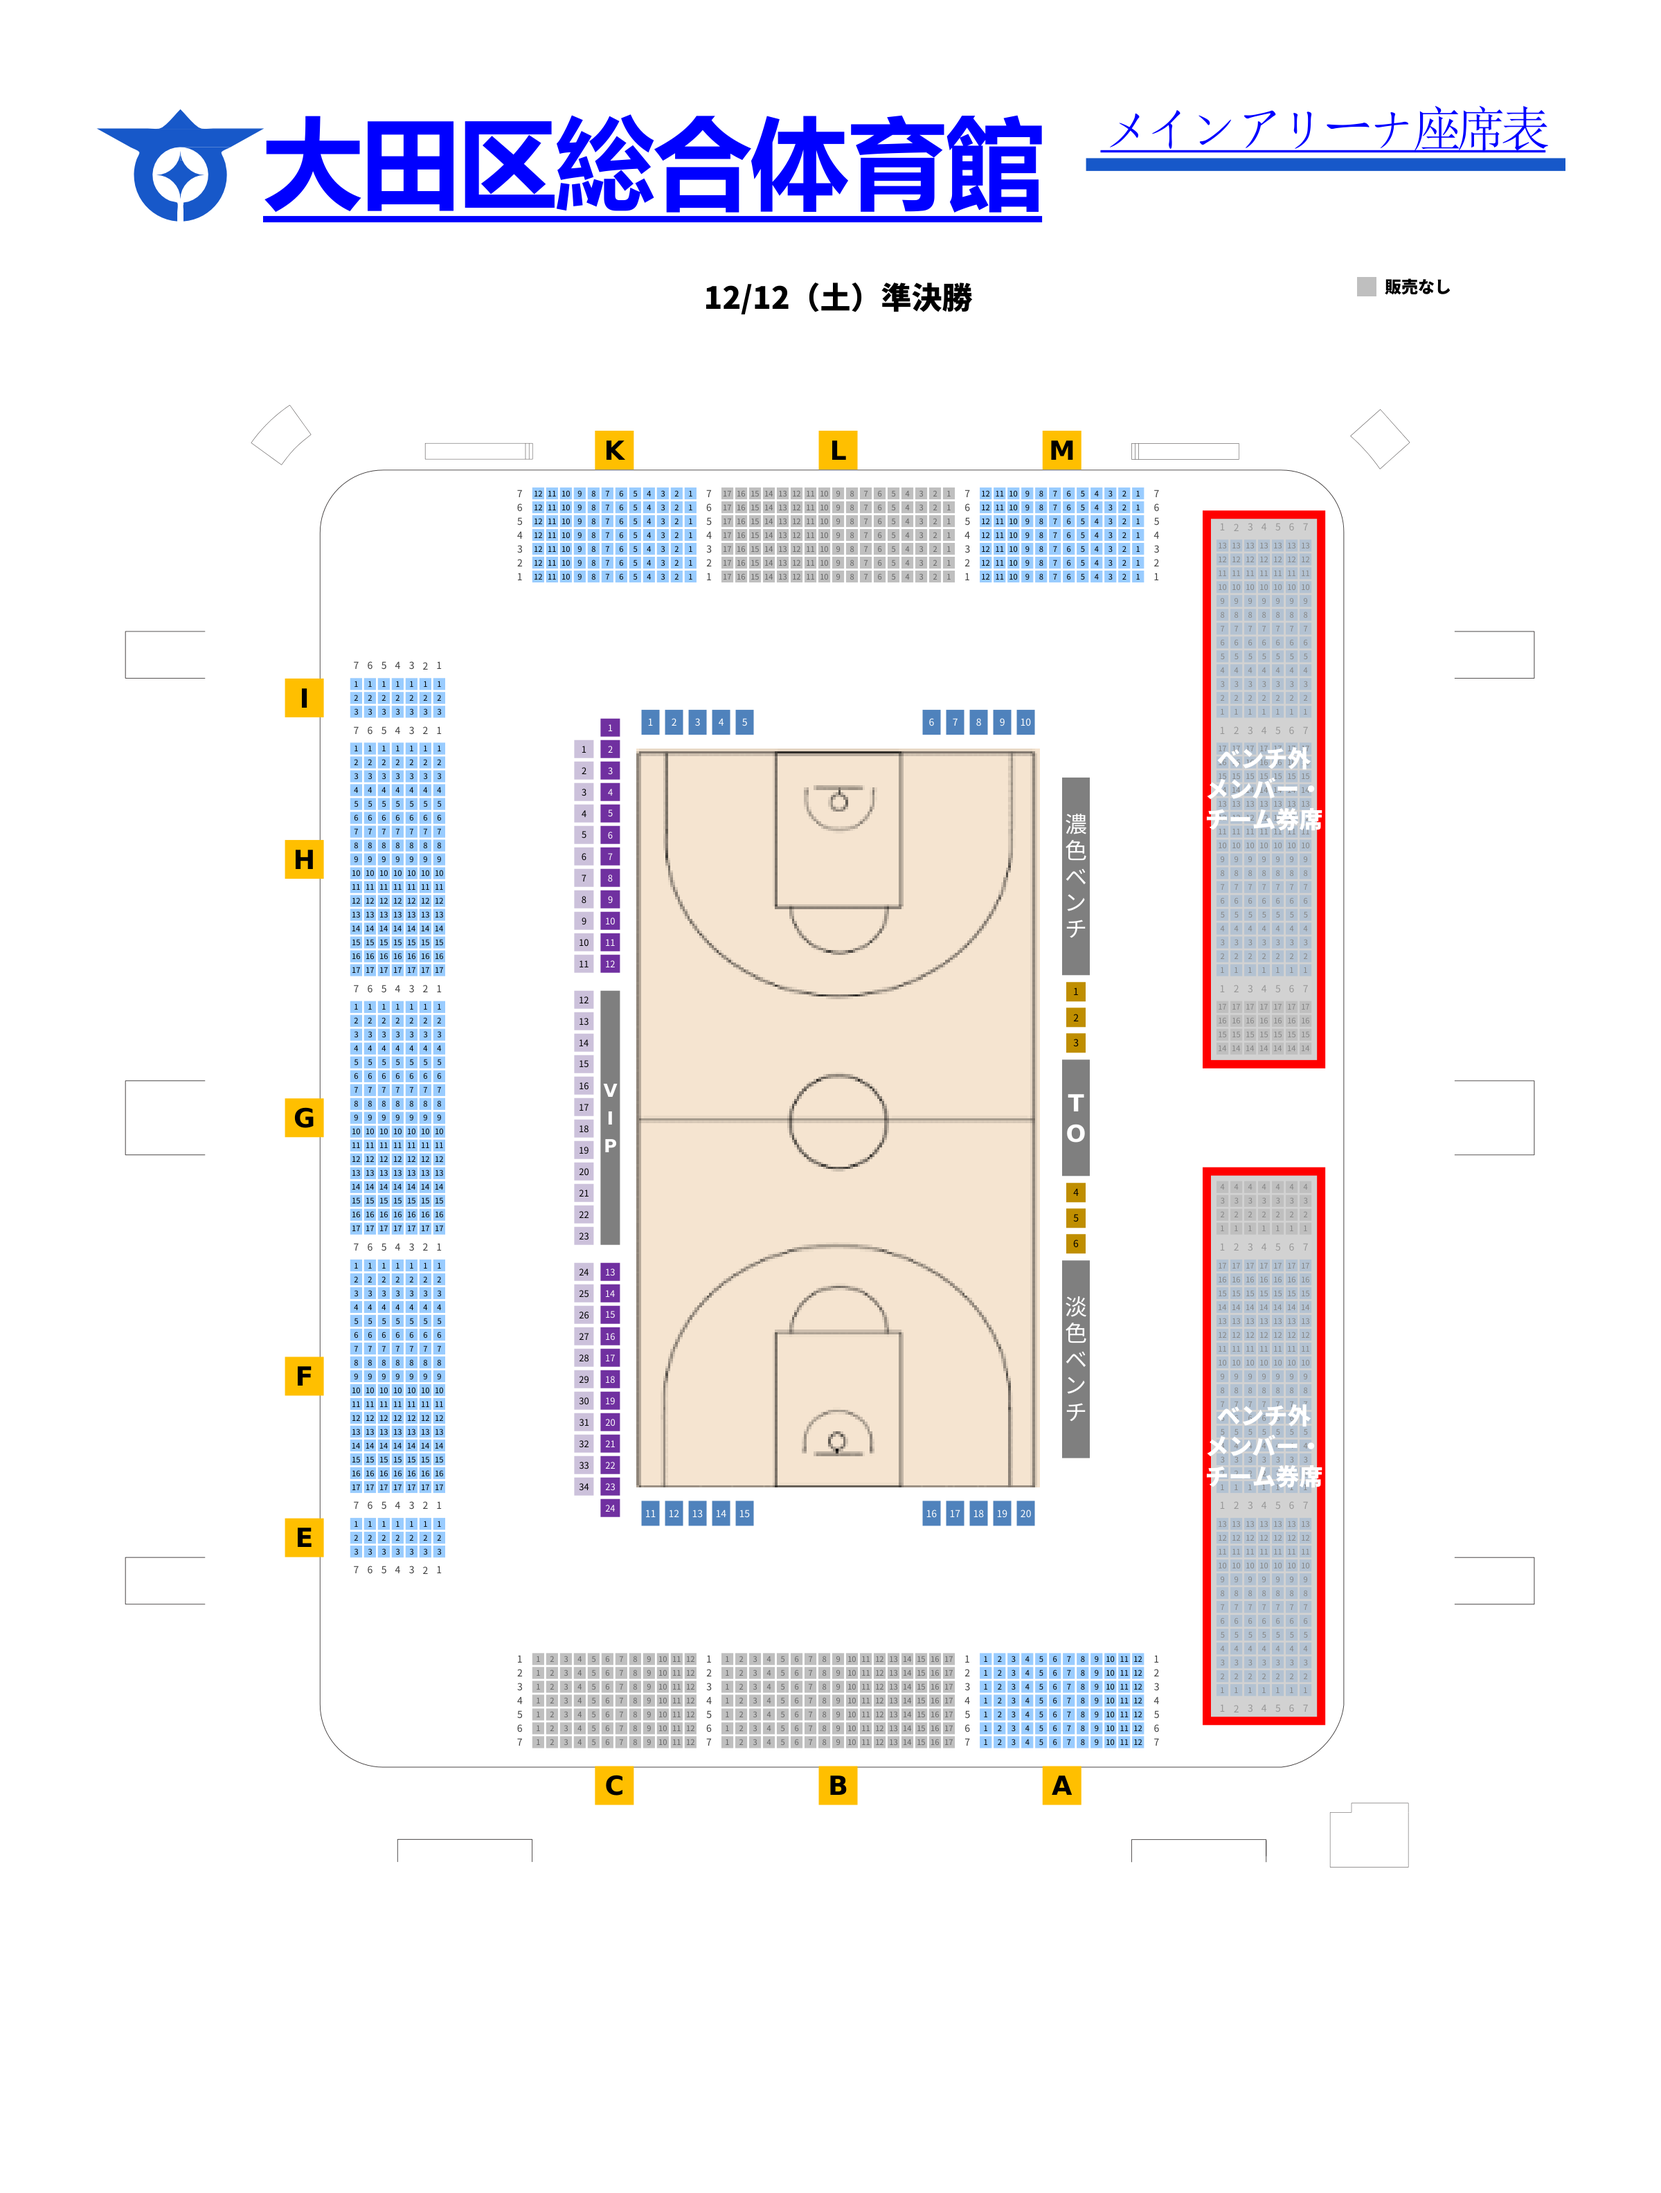
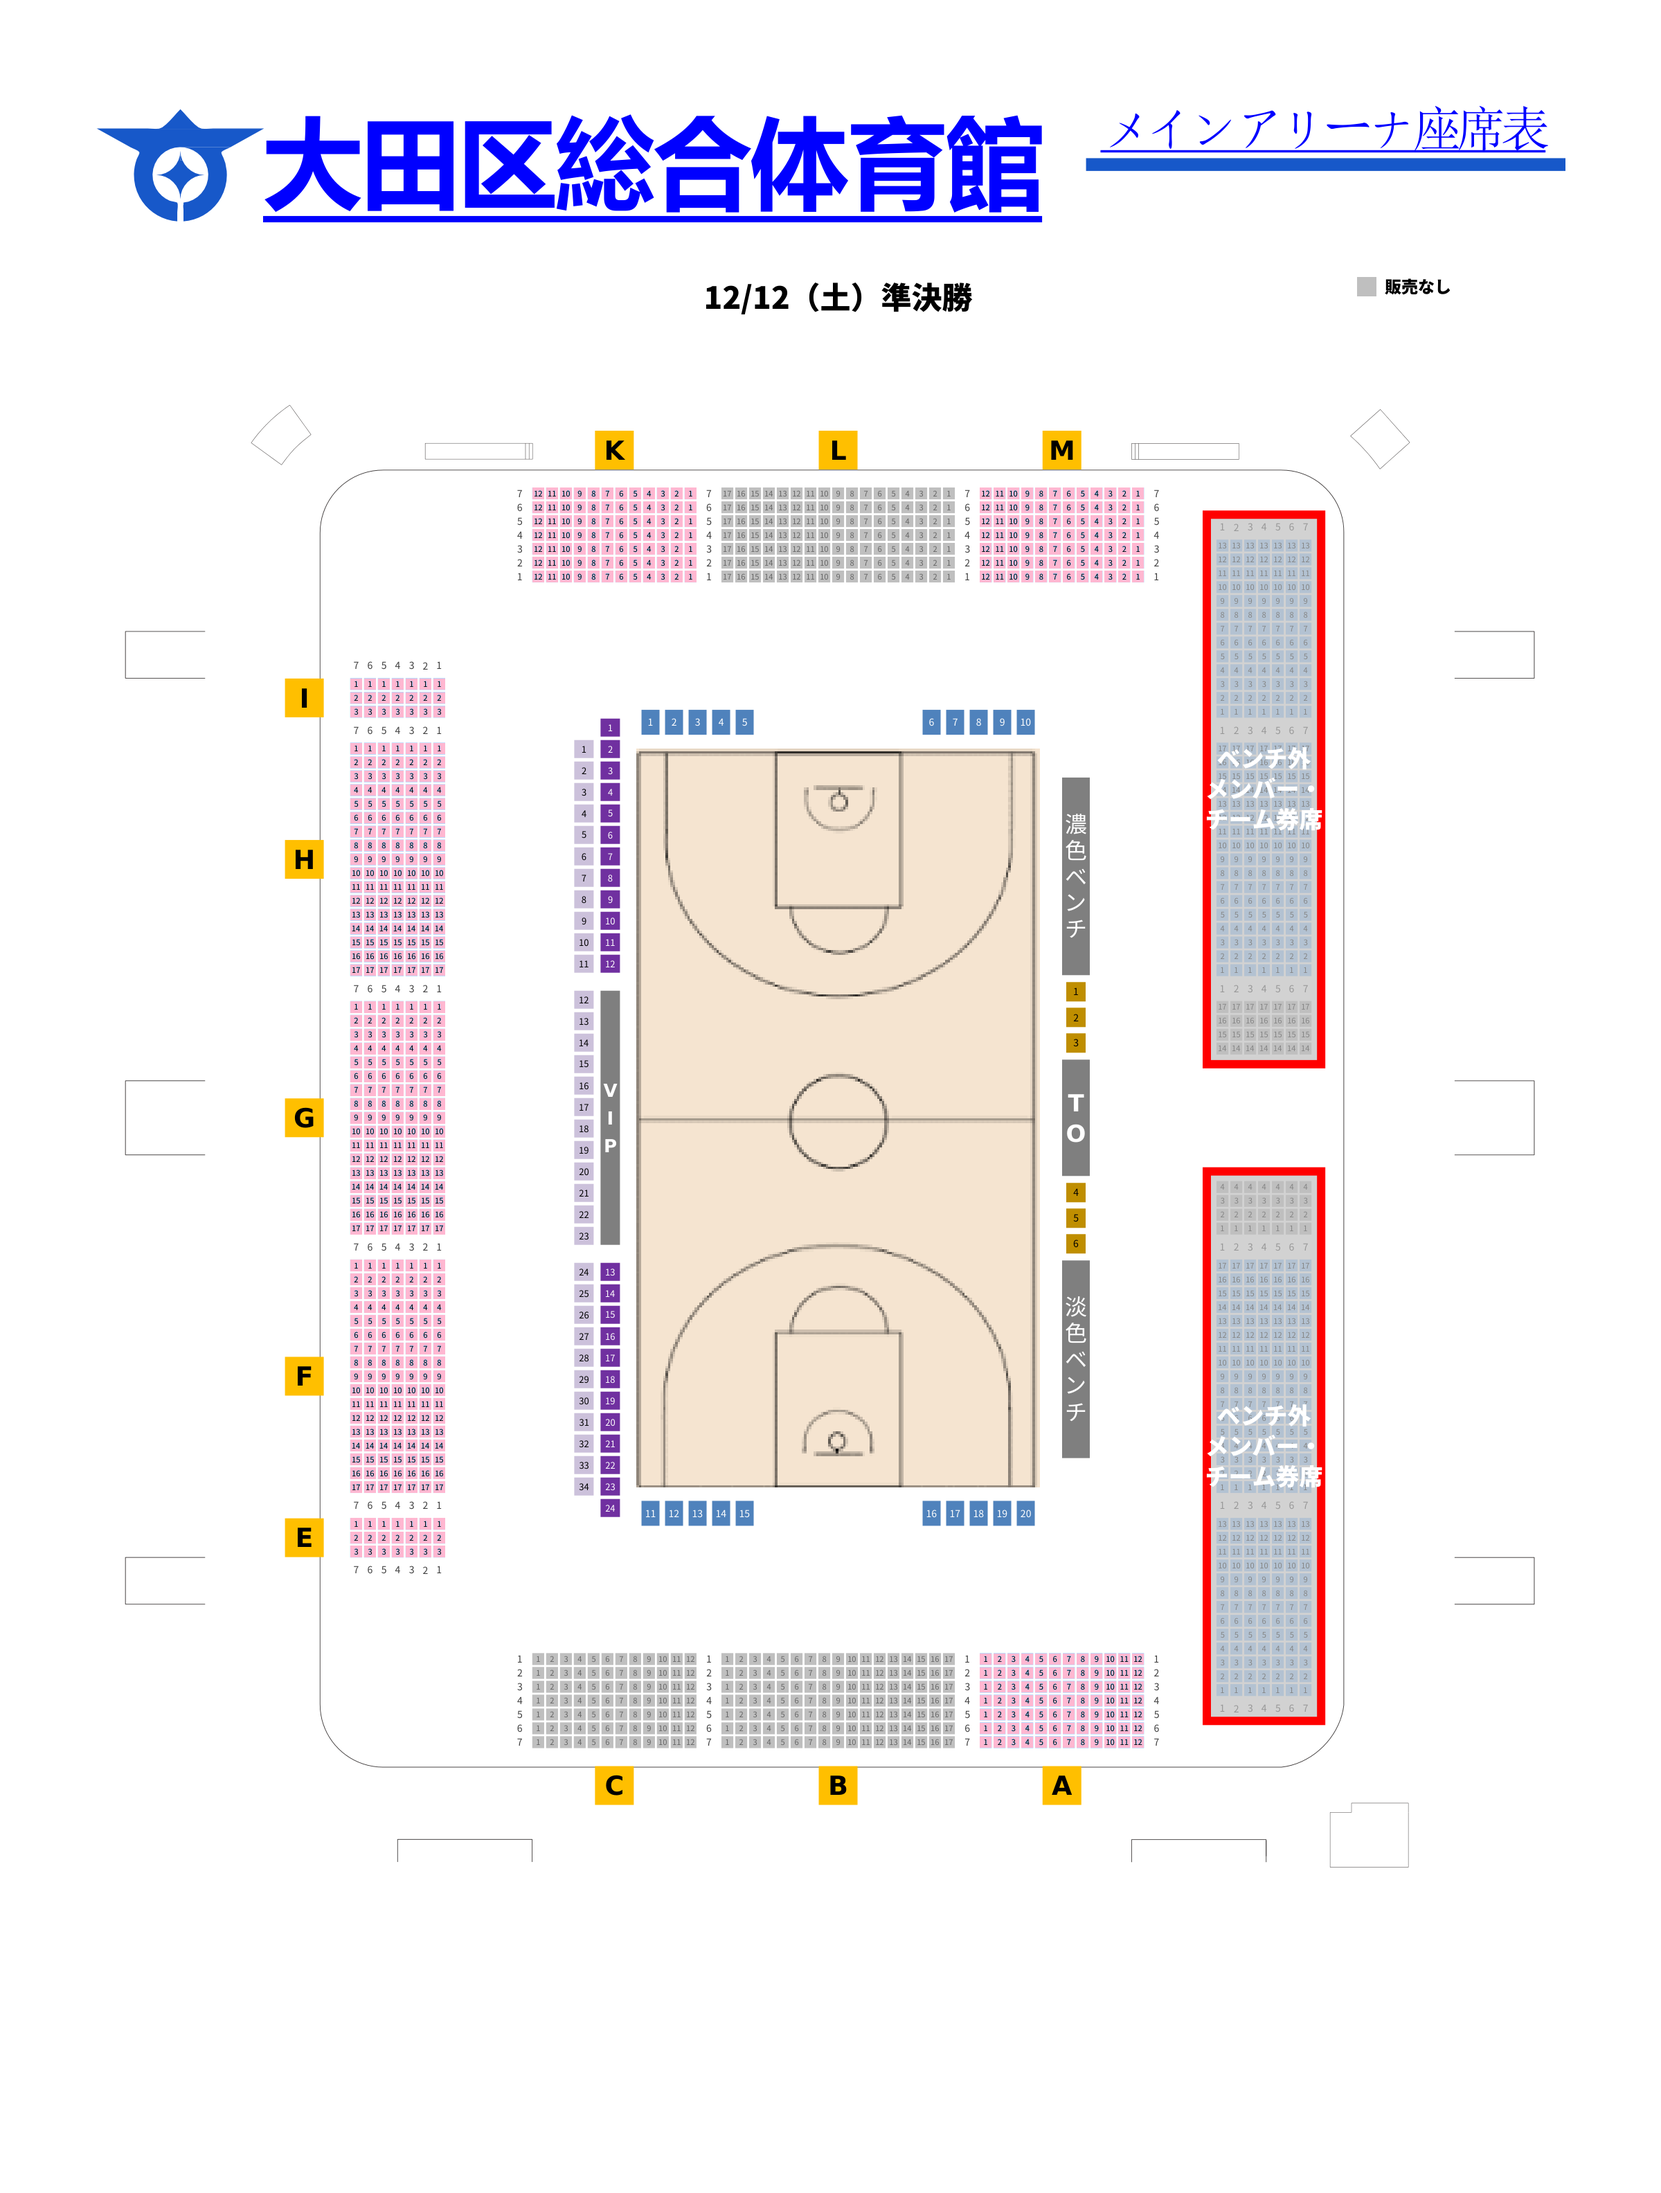
2階・チーム席に販売しません表示、大田1階をピンクに統一

diff --git a/src/components/SeatMap.tsx b/src/components/SeatMap.tsx
@@ -1,4 +1,9 @@
-import { useCallback, useEffect, useRef, useState } from 'react'
+import { useCallback, useEffect, useMemo, useRef, useState } from 'react'
+import {
+  mergeSeatRectsByZone,
+  NON_SELLABLE_ZONE_LABEL,
+  nonSellableZonesForEvent,
+} from '../lib/nonSellableRegions'
 import { isSeatSellable, isSold, seatOverlayClass } from '../lib/seatStatus'
 import type { SeatWithState, VenueEvent } from '../types'
 
@@ -134,10 +139,21 @@ export function SeatMap({
   const bgSrc =
     event.background_path ?? `/backgrounds/${event.slug}.png`
 
+  const nonSellableRegions = useMemo(() => {
+    const zones = nonSellableZonesForEvent(event.slug)
+    return zones.flatMap((zone) =>
+      mergeSeatRectsByZone(seats, zone).map((rect) => ({
+        zone,
+        rect,
+        label: NON_SELLABLE_ZONE_LABEL[zone] ?? '販売しません',
+      })),
+    )
+  }, [event.slug, seats])
+
   return (
     <div className="flex min-h-[50vh] flex-1 flex-col rounded-lg border border-slate-200 bg-white">
       <p className="border-b border-slate-200 px-3 py-1.5 text-xs text-slate-500">
-        図面は PDF から書き出した PNG（ピンク＝1階・灰色＝非販売）。空席に色は付けません。案内時のみ「空席のみ表示」で枠を出します。
+        ピンク＝1階（販売対象）。2階・チーム席は点線枠で「販売しません」表示。空席に色は付けません。
       </p>
       <div className="flex-1 overflow-auto p-2">
         {/* inline-block で img の表示サイズと席オーバーレイを完全一致 */}
@@ -173,6 +189,26 @@ export function SeatMap({
             )}
 
             <div className="pointer-events-none absolute inset-0">
+              {!moveLayoutMode &&
+                nonSellableRegions.map((region, idx) => (
+                  <div
+                    key={`ns-${region.zone}-${idx}`}
+                    className="absolute flex items-center justify-center overflow-hidden border-2 border-dashed border-slate-600/80 bg-slate-100/35"
+                    style={{
+                      left: `${region.rect.x * 100}%`,
+                      top: `${region.rect.y * 100}%`,
+                      width: `${region.rect.w * 100}%`,
+                      height: `${region.rect.h * 100}%`,
+                      backgroundImage:
+                        'repeating-linear-gradient(135deg, rgba(100,116,139,0.12) 0 6px, transparent 6px 14px)',
+                    }}
+                  >
+                    <span className="max-w-[92%] rounded-md bg-white/90 px-2 py-1 text-center text-[10px] font-bold leading-tight text-slate-700 shadow-sm sm:text-xs">
+                      {region.label}
+                    </span>
+                  </div>
+                ))}
+
               {seats.map((seat) => {
                 const preview = movePreview?.[seat.id]
                 const sx = preview?.x ?? seat.x

diff --git a/src/lib/nonSellableRegions.ts b/src/lib/nonSellableRegions.ts
@@ -1,0 +1,71 @@
+import type { Seat, SeatZone } from '../types'
+
+export type NormRect = { x: number; y: number; w: number; h: number }
+
+export const NON_SELLABLE_ZONE_LABEL: Partial<Record<SeatZone, string>> = {
+  floor2: '2階席・販売しません',
+  team_ticket: 'チーム席・販売しません',
+}
+
+/** 非販売席矩形を近接クラスタにまとめ、ラベル用の大きな枠にする */
+export function mergeSeatRectsByZone(
+  seats: Pick<Seat, 'x' | 'y' | 'w' | 'h' | 'zone'>[],
+  zone: SeatZone,
+  gap = 0.014,
+): NormRect[] {
+  type Box = { x0: number; y0: number; x1: number; y1: number }
+  let boxes: Box[] = seats
+    .filter((s) => s.zone === zone)
+    .map((s) => ({
+      x0: s.x - gap,
+      y0: s.y - gap,
+      x1: s.x + s.w + gap,
+      y1: s.y + s.h + gap,
+    }))
+
+  let merged = true
+  while (merged && boxes.length > 1) {
+    merged = false
+    const next: Box[] = []
+    const used = new Set<number>()
+    for (let i = 0; i < boxes.length; i++) {
+      if (used.has(i)) continue
+      let cur = boxes[i]
+      for (let j = i + 1; j < boxes.length; j++) {
+        if (used.has(j)) continue
+        const other = boxes[j]
+        const overlaps =
+          cur.x0 <= other.x1 &&
+          cur.x1 >= other.x0 &&
+          cur.y0 <= other.y1 &&
+          cur.y1 >= other.y0
+        if (overlaps) {
+          cur = {
+            x0: Math.min(cur.x0, other.x0),
+            y0: Math.min(cur.y0, other.y0),
+            x1: Math.max(cur.x1, other.x1),
+            y1: Math.max(cur.y1, other.y1),
+          }
+          used.add(j)
+          merged = true
+        }
+      }
+      used.add(i)
+      next.push(cur)
+    }
+    boxes = next
+  }
+
+  return boxes.map((b) => ({
+    x: Math.max(0, b.x0),
+    y: Math.max(0, b.y0),
+    w: Math.min(1, b.x1) - Math.max(0, b.x0),
+    h: Math.min(1, b.y1) - Math.max(0, b.y0),
+  }))
+}
+
+export function nonSellableZonesForEvent(slug: string): SeatZone[] {
+  if (slug === '2025-12-11') return ['floor2']
+  if (slug === '2025-12-12' || slug === '2025-12-13') return ['team_ticket']
+  return []
+}

diff --git a/src/App.tsx b/src/App.tsx
@@ -185,13 +185,13 @@ function App() {
                 </span>
               </div>
               <p className="text-xs text-violet-700">
-                水色枠＝1階（終日） / 紫枠＝男女切替対象エリア
+                ピンク＝1階（終日・男女共通） / 点線枠＝チーム席（販売なし）
               </p>
             </div>
           )}
 
           <p className="text-sm text-slate-600">
-            1階席（<strong>ピンク</strong>）だけ販売・案内対象。PDF 上<strong>灰色</strong>の席・エリアはそのまま（販売なし）。販売済みだけ薄いグレーを重ねます。
+            1階席（<strong>ピンク</strong>）だけ販売・案内対象。2階・チーム席は図面上で「販売しません」と表示。販売済みだけ薄いグレーを重ねます。
           </p>
 
           <div className="flex flex-wrap items-center gap-2">

diff --git a/src/components/Legend.tsx b/src/components/Legend.tsx
@@ -4,6 +4,13 @@ export function Legend() {
   return (
     <div className="flex flex-wrap items-center gap-x-4 gap-y-2 rounded-lg border border-slate-200 bg-white px-3 py-2 text-sm shadow-sm">
       <span className="font-semibold text-slate-700">凡例</span>
+      <div className="flex items-center gap-1.5">
+        <span
+          className="inline-block h-4 w-4 rounded border-2 border-dashed border-slate-600 bg-slate-100/80"
+          aria-hidden
+        />
+        <span className="text-slate-600">2階・チーム席（販売しません）</span>
+      </div>
       {(
         [
           'available',

diff --git a/scripts/convert_pdfs.py b/scripts/convert_pdfs.py
@@ -25,6 +25,36 @@ DATE_MAP = {
 }
 
 
+# 駒オリ 1階ピンク（PDF 塗り）
+KOMORI_PINK = (255, 183, 209)
+
+
+def is_ota_floor1_blue(r: int, g: int, b: int) -> bool:
+    """会場総合図の水色 1 階席塗り → ピンクに置換"""
+    return 140 <= r <= 175 and 188 <= g <= 225 and b >= 238
+
+
+def recolor_ota_floor1_to_pink(path: Path) -> None:
+    try:
+        from PIL import Image
+    except ImportError:
+        print("Pillow が無いため水色→ピンク変換をスキップ: pip install pillow", file=sys.stderr)
+        return
+    im = Image.open(path).convert("RGB")
+    px = im.load()
+    w, h = im.size
+    changed = 0
+    for y in range(h):
+        for x in range(w):
+            r, g, b = px[x, y]
+            if is_ota_floor1_blue(r, g, b):
+                px[x, y] = KOMORI_PINK
+                changed += 1
+    if changed:
+        im.save(path)
+        print(f"  recolored {changed} px to pink on {path.name}")
+
+
 def slug_from_name(name: str) -> str | None:
     for key, slug in DATE_MAP.items():
         if key in name:
@@ -60,6 +90,8 @@ def main() -> None:
         )
         pix.save(out)
         doc.close()
+        if slug in ("2025-12-12", "2025-12-13"):
+            recolor_ota_floor1_to_pink(out)
         meta = {
             "slug": slug,
             "page_width": pw,
